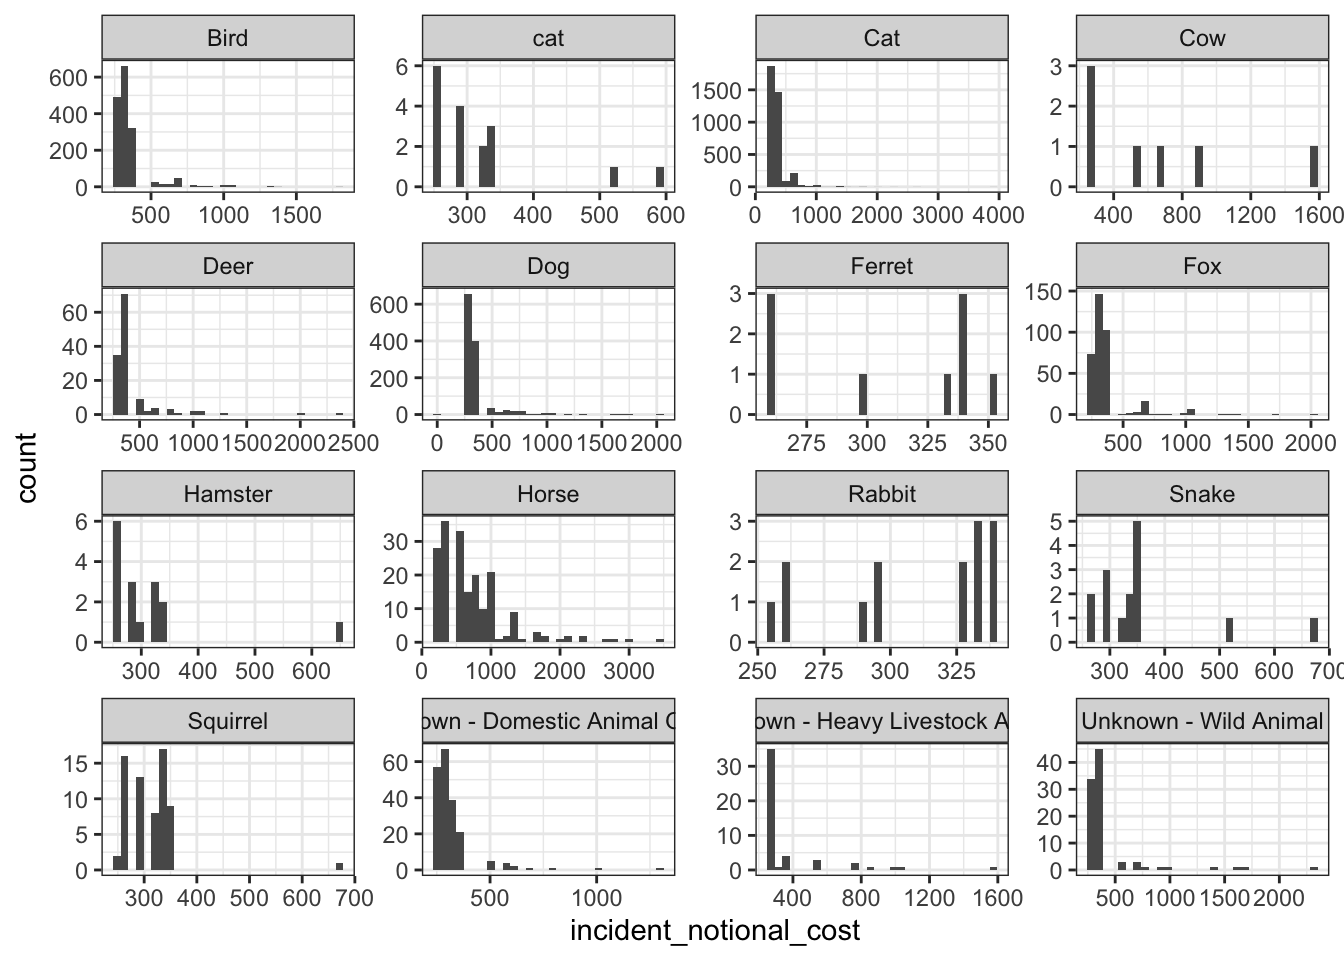
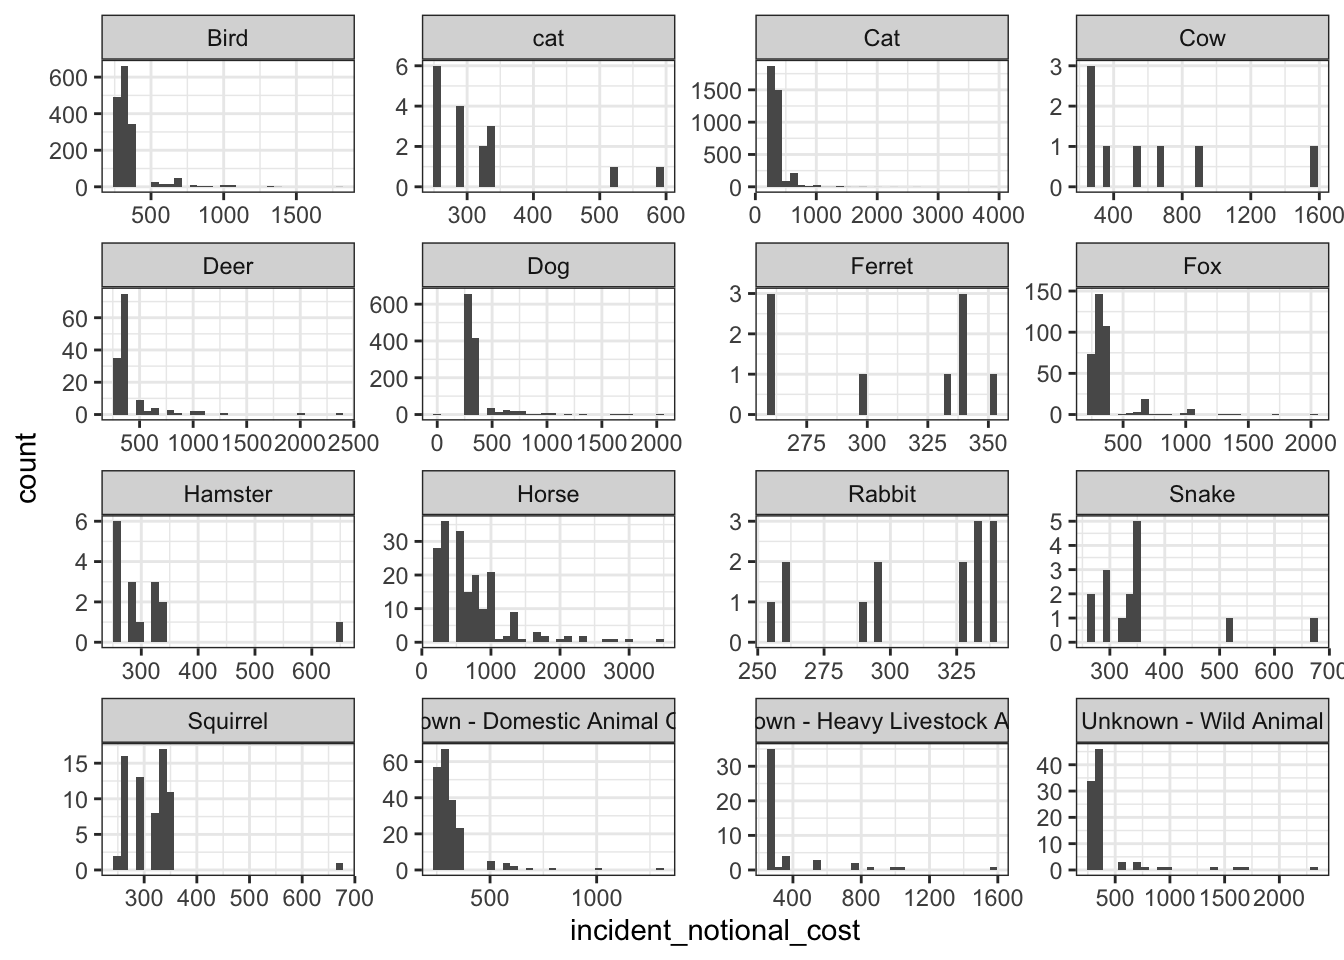
fix pre-program

Changed region(s): [[0.0312, 0.3125, 0.25, 0.4062], [0.75, 0.7812, 0.9688, 0.8438], [0.8125, 0.1562, 0.8438, 0.1875]]

diff --git a/content/project/preprogram/index.html b/content/project/preprogram/index.html
@@ -23,38 +23,8 @@ output:
 <script src="{{< blogdown/postref >}}index_files/header-attrs/header-attrs.js"></script>
 
 
-<div id="task-1-brief-biography" class="section level1">
-<h1>Task 1: Brief Biography</h1>
-</div>
-<div id="alex-kubbingas-brief-biography" class="section level1">
-<h1>Alex Kubbinga’s Brief Biography:</h1>
-<p><img src="https://media-exp1.licdn.com/dms/image/C4D03AQG2u8dcVpG9xg/profile-displayphoto-shrink_800_800/0/1596704694739?e=1635379200&amp;v=beta&amp;t=H7NNjZrw5J_75hDOOmkZbqK5mXdqOj8h_C5p7NUYe5w" height="200" /></p>
-<p>Hi there! I was born in Singapore. I am <em>South African and Dutch</em> by birth, but spent most of my life growing up in <strong>Dubai</strong>. I recently completed my bachelors in Milan studying economics and computer science.</p>
-<div id="i-have-lived-in-the-following-cities" class="section level3">
-<h3>I have lived in the following cities:</h3>
-<ul>
-<li>Singapore</li>
-<li>Shanghai</li>
-<li>Johannesburg</li>
-<li>Dubai</li>
-<li>Milan</li>
-<li>London</li>
-</ul>
-<p>In my free time I enjoy:</p>
-<ol style="list-style-type: decimal">
-<li>Working out (football, swimming, calisthenics)</li>
-<li>Reading about investing and business</li>
-<li>Spending time with close friends and meeting new people</li>
-</ol>
-<p>Things I want to do more of:</p>
-<ol style="list-style-type: decimal">
-<li>Code</li>
-<li>Make YouTube videos</li>
-</ol>
-</div>
-</div>
-<div id="task-2-gapminder-country-comparison" class="section level1">
-<h1>Task 2: <code>gapminder</code> country comparison</h1>
+<div id="task-1-gapminder-country-comparison" class="section level1">
+<h1>Task 1: <code>gapminder</code> country comparison</h1>
 <p>The <code>gapminder</code> dataset that has data on life expectancy, population, and GDP per capita for 142 countries from 1952 to 2007. Here is an overview of the dataset:</p>
 <pre class="r"><code>glimpse(gapminder)</code></pre>
 <pre><code>## Rows: 1,704
@@ -118,8 +88,8 @@ plot2</code></pre>
 <p>The data shows that since 1952 the average life expectancy in all continents has increased. This can be seen as all continents have a positive sloping trendline of life expectancy. The world has become a safer and healthier place due to advances in technology.</p>
 <p>Certain continents, and countries within the respective continents, have higher life expectancies than others. This could be due to a variety of factors including economic position, political stability, health systems, lifestyle, culture and much more.</p>
 </div>
-<div id="task-3-brexit-vote-analysis" class="section level1">
-<h1>Task 3: Brexit vote analysis</h1>
+<div id="task-2-brexit-vote-analysis" class="section level1">
+<h1>Task 2: Brexit vote analysis</h1>
 <p>Our goal here is to look at and analyse the 2016 Brexit vote in the UK.</p>
 <pre class="r"><code>brexit_results &lt;- read_csv(here::here(&quot;content/project/preprogram/data1&quot;,&quot;brexit_results.csv&quot;))
 
@@ -196,8 +166,8 @@ ggplot(brexit_results, aes(x = leave_share)) +
 <p>The UK born population in a constituency is hypothesized to be an important predictor in leave share as UK born and bred individuals may have more nationalistic views and be more likely to want to leave the EU. This could mean that if a constituency has more UK born individuals it could have a greater percentage of leave share votes.</p>
 <p>Fearing the open immigration policy in the EU and wanting to prevent this from diminishing British culture, British born individuals were more likely to vote to leave the EU. This can be seen due to the populated cluster of constituencies with a greater % of indiviudals born in the UK and a greater % of votes to leave. The scatter plot also has a positive sloped trendline. The positively sloped trendline shows the positive correlation between % Born in the UK and the Leave Share %.</p>
 </div>
-<div id="task-4-animal-rescue-incidents-attended-by-the-london-fire-brigade" class="section level1">
-<h1>Task 4: Animal rescue incidents attended by the London Fire Brigade</h1>
+<div id="task-3-animal-rescue-incidents-attended-by-the-london-fire-brigade" class="section level1">
+<h1>Task 3: Animal rescue incidents attended by the London Fire Brigade</h1>
 <p><a href="https://data.london.gov.uk/dataset/animal-rescue-incidents-attended-by-lfb">The London Fire Brigade</a> attends a range of non-fire incidents (which we call ‘special services’). These ‘special services’ include assistance to animals that may be trapped or in distress. The data is provided from January 2009 and is updated monthly. A range of information is supplied for each incident including some location information (postcode, borough, ward), as well as the data/time of the incidents. We do not routinely record data about animal deaths or injuries.</p>
 <p>Here we have an overview of the Animal Rescue Incidents dataset:</p>
 <pre class="r"><code>url &lt;- &quot;https://data.london.gov.uk/download/animal-rescue-incidents-attended-by-lfb/8a7d91c2-9aec-4bde-937a-3998f4717cd8/Animal%20Rescue%20incidents%20attended%20by%20LFB%20from%20Jan%202009.csv&quot;
@@ -208,7 +178,7 @@ animal_rescue &lt;- read_csv(url,
 
 
 glimpse(animal_rescue)</code></pre>
-<pre><code>## Rows: 7,772
+<pre><code>## Rows: 7,873
 ## Columns: 31
 ## $ incident_number               &lt;dbl&gt; 139091, 275091, 2075091, 2872091, 355309…
 ## $ date_time_of_call             &lt;chr&gt; &quot;01/01/2009 03:01&quot;, &quot;01/01/2009 08:51&quot;, …
@@ -231,9 +201,9 @@ glimpse(animal_rescue)</code></pre>
 ## $ borough_code                  &lt;chr&gt; &quot;E09000008&quot;, &quot;E09000008&quot;, &quot;E09000029&quot;, &quot;…
 ## $ borough                       &lt;chr&gt; &quot;Croydon&quot;, &quot;Croydon&quot;, &quot;Sutton&quot;, &quot;Hilling…
 ## $ stn_ground_name               &lt;chr&gt; &quot;Norbury&quot;, &quot;Woodside&quot;, &quot;Wallington&quot;, &quot;Ru…
-## $ uprn                          &lt;chr&gt; &quot;NULL&quot;, &quot;NULL&quot;, &quot;NULL&quot;, &quot;100021491149&quot;, …
+## $ uprn                          &lt;chr&gt; &quot;NULL&quot;, &quot;NULL&quot;, &quot;NULL&quot;, &quot;100021491149.00…
 ## $ street                        &lt;chr&gt; &quot;Waddington Way&quot;, &quot;Grasmere Road&quot;, &quot;Mill…
-## $ usrn                          &lt;chr&gt; &quot;20500146&quot;, &quot;NULL&quot;, &quot;NULL&quot;, &quot;21401484&quot;, …
+## $ usrn                          &lt;chr&gt; &quot;20500146.00&quot;, &quot;NULL&quot;, &quot;NULL&quot;, &quot;21401484…
 ## $ postcode_district             &lt;chr&gt; &quot;SE19&quot;, &quot;SE25&quot;, &quot;SM5&quot;, &quot;UB9&quot;, &quot;RM3&quot;, &quot;RM…
 ## $ easting_m                     &lt;chr&gt; &quot;NULL&quot;, &quot;534785&quot;, &quot;528041&quot;, &quot;504689&quot;, &quot;N…
 ## $ northing_m                    &lt;chr&gt; &quot;NULL&quot;, &quot;167546&quot;, &quot;164923&quot;, &quot;190685&quot;, &quot;N…
@@ -263,7 +233,7 @@ animal_rescue %&gt;%
 ## 10     2018   610
 ## 11     2019   604
 ## 12     2020   758
-## 13     2021   547</code></pre>
+## 13     2021   648</code></pre>
 <p>It is also interesting to see the number of incidents by animal group to analyse which animals are rescued more frequently.</p>
 <pre class="r"><code># animal_rescue %&gt;% 
 #   group_by(animal_group_parent) %&gt;% 
@@ -289,15 +259,15 @@ animal_rescue %&gt;%
 <pre><code>## # A tibble: 28 x 3
 ##    animal_group_parent              count percent
 ##    &lt;chr&gt;                            &lt;int&gt;   &lt;dbl&gt;
-##  1 Cat                               3736   48.1 
-##  2 Bird                              1611   20.7 
-##  3 Dog                               1213   15.6 
-##  4 Fox                                366    4.71
-##  5 Unknown - Domestic Animal Or Pet   199    2.56
-##  6 Horse                              195    2.51
-##  7 Deer                               132    1.7 
-##  8 Unknown - Wild Animal               93    1.2 
-##  9 Squirrel                            66    0.85
+##  1 Cat                               3783   48.0 
+##  2 Bird                              1631   20.7 
+##  3 Dog                               1230   15.6 
+##  4 Fox                                373    4.74
+##  5 Unknown - Domestic Animal Or Pet   201    2.55
+##  6 Horse                              195    2.48
+##  7 Deer                               136    1.73
+##  8 Unknown - Wild Animal               94    1.19
+##  9 Squirrel                            68    0.86
 ## 10 Unknown - Heavy Livestock Animal    50    0.64
 ## # … with 18 more rows</code></pre>
 <p>It is strange to note that there are some cases with unknown animals. In addition, Cat, Bird, Dog and Fox make up the majority of all cases (~80%).</p>
@@ -347,19 +317,19 @@ typeof(animal_rescue$incident_notional_cost)</code></pre>
 ##    animal_group_parent      mean_incident_co… median_incident_… sd_incident_cost
 ##    &lt;chr&gt;                                &lt;dbl&gt;             &lt;dbl&gt;            &lt;dbl&gt;
 ##  1 Horse                                 740.               596            541. 
-##  2 Cow                                   634.               520            475. 
-##  3 Deer                                  417.               333            286. 
-##  4 Unknown - Wild Animal                 416.               333            324. 
+##  2 Cow                                   599.               436            451. 
+##  3 Unknown - Wild Animal                 416.               333            322. 
+##  4 Deer                                  415.               333            282. 
 ##  5 Unknown - Heavy Livesto…              374.               260            263. 
-##  6 Fox                                   373.               328            206. 
+##  6 Fox                                   374.               328            205. 
 ##  7 Snake                                 356.               339            105. 
-##  8 Dog                                   347.               298            169. 
-##  9 Bird                                  344.               328            135. 
-## 10 Cat                                   343.               298            160. 
-## 11 Unknown - Domestic Anim…              326.               295            117. 
+##  8 Dog                                   347.               298            168. 
+##  9 Bird                                  344.               328            134. 
+## 10 Cat                                   344.               326            160. 
+## 11 Unknown - Domestic Anim…              326.               295            116. 
 ## 12 cat                                   324.               290             94.1
 ## 13 Hamster                               315.               290             95.0
-## 14 Squirrel                              313.               326             57.1
+## 14 Squirrel                              314.               326             56.7
 ## 15 Ferret                                309.               333             39.4
 ## 16 Rabbit                                309.               326             32.2
 ## # … with 3 more variables: min_incident_cost &lt;dbl&gt;, max_incident_cost &lt;dbl&gt;,
